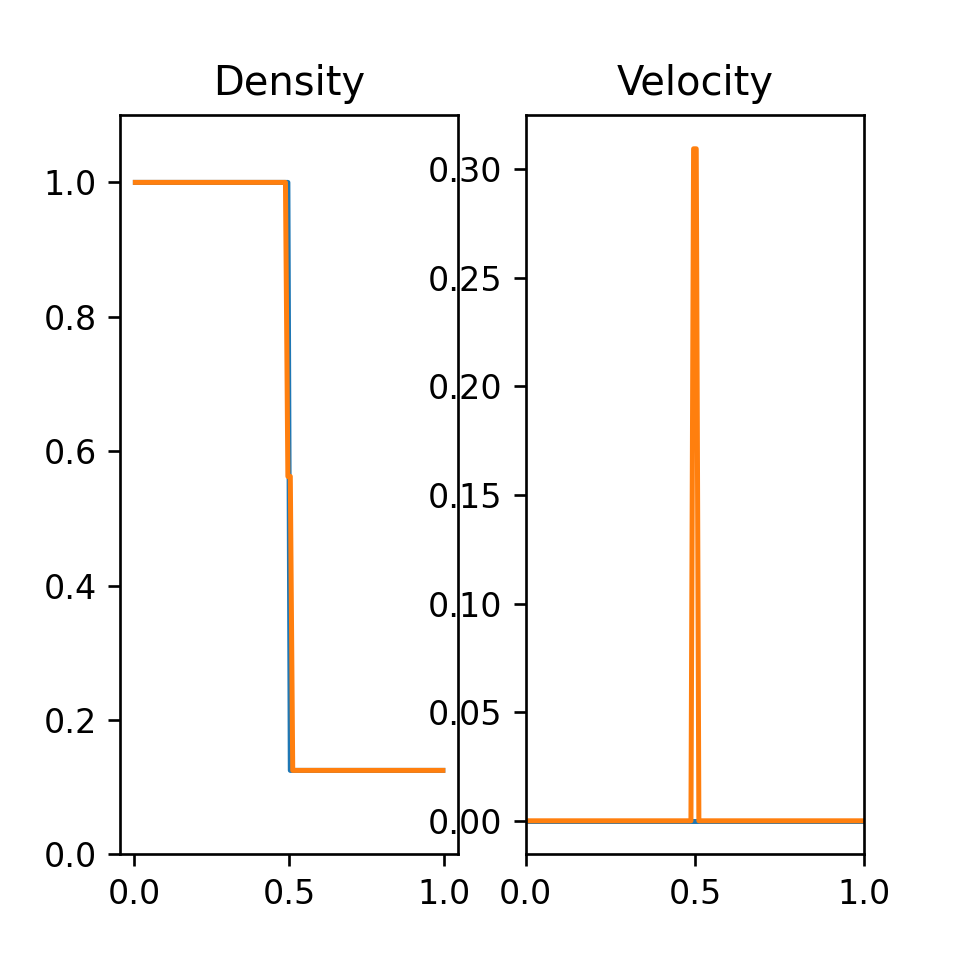
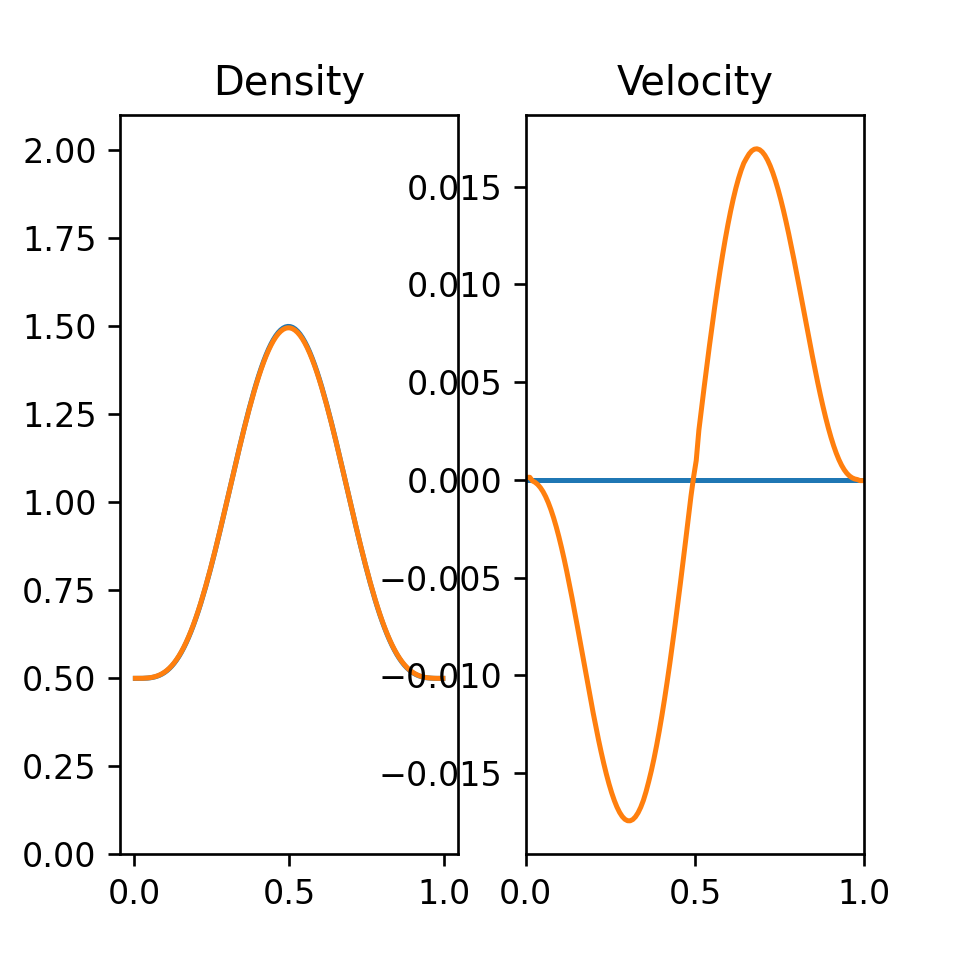
Fix code issues

diff --git a/main.py b/main.py
@@ -1,6 +1,5 @@
 import numpy as np
 import matplotlib.pyplot as plt
-from scipy.interpolate import CubicSpline, interp1d
 from KTalgorithm import *
 from EoS import *
 from RK_Heuns_integrator import *
@@ -13,10 +12,10 @@ def main():
     N                      = 128 # resolution
     boxsize                = 1.  # in some unit system l
     gamma                  = 2 # adiabatic index
-    zeta                   = 0 # bulk viscosity coefficient
+    zeta                   = 1 # bulk viscosity coefficient
     tau_nu                 = 200
     t                      = 0   # s 
-    tEnd                   = 20   # time at the end
+    tEnd                   = 2   # time at the end
     tOut                   = 2 # time of each output
     plotRealTime = True  # switch on for plotting as the simulation goes along
 
@@ -40,13 +39,9 @@ def main():
 
 
     #rho0 = np.ones(xlin.shape)
-    #rho0 = ((1 - ((xlin - (boxsize-0.5*dx)*0.5)**2)/0.25 )**4 ) + np.ones(xlin.shape) # Mauricio`s funtion advice   
-    rho0 = 1*(xlin < boxsize*0.5) + 0.125*(xlin >= boxsize*0.5)
+    rho0 = ((1 - ((xlin - (boxsize-0.5*dx)*0.5)**2)/0.25 )**4 ) + 0.5*np.ones(xlin.shape) # Mauricio`s funtion advice   
+    #rho0 = 1*(xlin < boxsize*0.5) + 0.125*(xlin >= boxsize*0.5)
     
-
-    # put Cubic spline in place of Gaussian
-  
-
   
     #vx0 = 100*np.abs((xlin - (boxsize-0.5*dx)*0.5)/16)
     vx0 = np.zeros(xlin.shape)
@@ -65,12 +60,7 @@ def main():
     cs = getSpeedOfSound(rho,gamma)
     
 
-    #-----------------------------------------------------------------------------------------------------------------------------------#
-
-
-    # Get conserved variables
-    Mass, Momx = getConserved( rho, vx, vol)
-
+   
     #-----------------------------------------------------------------------------------------------------------------------------------#
 
 
@@ -95,11 +85,11 @@ def main():
         #-----------------------------------------------------------------------------------------------------------------------------------#
 
         # get Conserved variables
-        Mass, Momx = getConserved( rho, vx, vol)
+        Mass, Momx, Pi_vx = getConserved( rho, vx, Pi, vol)
 
         if np.any(Mass < 0):
           print("Mass is negative")
-          exit()
+     
 
         # get Primitive variables
         rho, vx, P = getPrimitive( Mass, Momx, gamma, vol )
@@ -166,7 +156,6 @@ def main():
                          out=np.zeros_like(modified_RungeKutta(Momx,  applyFluxes( flux_Momx_XR,   flux_Momx_XL,   dx), dt)), where=rho!=0)
         Pi     = modified_RungeKutta(Pi, applyFluxes( flux_Pi_vxR,    flux_Pi_vxL,    dx, J), dt)
 
-        Pi = regParams(Pi,1)
         
 
         #-----------------------------------------------------------------------------------------------------------------------------------#
@@ -201,7 +190,7 @@ def main():
         # plot in real time 
         if (plotRealTime and plotThisTurn) or (t >= tEnd):
             ax1.plot(xlin,rho)
-            ax1.set_ylim((0,1+0.1))
+            ax1.set_ylim((0,2+0.1))
             ax2.plot(xlin,vx)
             plt.xlim((0,boxsize))
             plt.pause(0.001)

diff --git a/KTalgorithm.py b/KTalgorithm.py
@@ -41,14 +41,10 @@ def local_propagation_speed(rho, vx, Pi, gamma, B):
 
    C1 = np.abs(vx)
 
-   C2 = np.abs(vx/(2*gamma) - np.divide(np.sqrt(rho**2 * vx**2 - 2 * rho * vx**2 * gamma + 4 * (B + Pi) * rho * gamma**2 + 4* rho**(1+ gamma) * gamma**3 ),
-                                        2 * rho * gamma, out=np.zeros_like(rho**2 * vx**2 - 2 * rho * vx**2 * gamma + 4 * (B + Pi) * rho * gamma**2 + 4* rho**(1+ gamma) * gamma**3),
-                                        where=rho!=0)) 
+   C2 = np.abs(vx/(2*gamma) - np.sqrt( vx**2 - np.divide(2 * vx**2 * gamma + 4 * (B + Pi) * gamma**2, rho, out=np.zeros_like(2 * vx**2 * gamma + 4 * (B + Pi) * gamma**2)) + 4* rho**(gamma-1) * gamma**3 ), where=rho!=0) 
 
 
-   C3 = np.abs(vx/(2*gamma) + np.divide(np.sqrt(rho**2 * vx**2 - 2 * rho * vx**2 * gamma + 4 * (B + Pi) * rho * gamma**2 + 4* rho**(1+ gamma) * gamma**3 ),
-                                        2 * rho * gamma, out=np.zeros_like(rho**2 * vx**2 - 2 * rho * vx**2 * gamma + 4 * (B + Pi) * rho * gamma**2 + 4* rho**(1+ gamma) * gamma**3),
-                                          where=rho!=0))   
+   C3 = np.abs(vx/(2*gamma) + np.sqrt( vx**2 - np.divide(2 * vx**2 * gamma + 4 * (B + Pi) * gamma**2, rho, out=np.zeros_like(2 * vx**2 * gamma + 4 * (B + Pi) * gamma**2)) + 4* rho**(gamma-1) * gamma**3 ), where=rho!=0)
 
    return np.maximum(C1,C2,C3)
 
@@ -101,7 +97,7 @@ def getFlux(rho_P, rho_M, vx_P, vx_M, Pi_P, Pi_M, P_P, P_M, gamma, B):
 
   flux_Mass   = momx_av
   flux_Momx   = 0.25*(rho_P*(vx_P)**2 + rho_M*(vx_M)**2) + (P_av + Pi_av)/gamma
-  flux_Pi_v   = Pi_vx_av + B * (vx_P + vx_M)
+  flux_Pi_v   = Pi_vx_av + B * (vx_P + vx_M) * 0.5
   
   # find wavespeeds
 

diff --git a/EoS.py b/EoS.py
@@ -1,7 +1,7 @@
 import numpy as np
 
 
-def getConserved( rho, vx, vol ):
+def getConserved( rho, vx, Pi, vol ):
     """
     Calculate the conserved variable from the primitive
     rho      is matrix of cell densities
@@ -13,8 +13,9 @@ def getConserved( rho, vx, vol ):
     """
     Mass   = rho * vol
     Momx   = rho * vx 
+    Pi_vx  = Pi  * vx
 
-    return Mass, Momx
+    return Mass, Momx, Pi_vx
   
 def getPrimitive( Mass, Momx, gamma, vol):
   """

diff --git a/RK_Heuns_integrator.py b/RK_Heuns_integrator.py
@@ -30,5 +30,3 @@ def modified_RungeKutta(q, C, dt, s=2):
     return y[s-1]
 
 
-def heun_integrator(t,y):
-    pass
